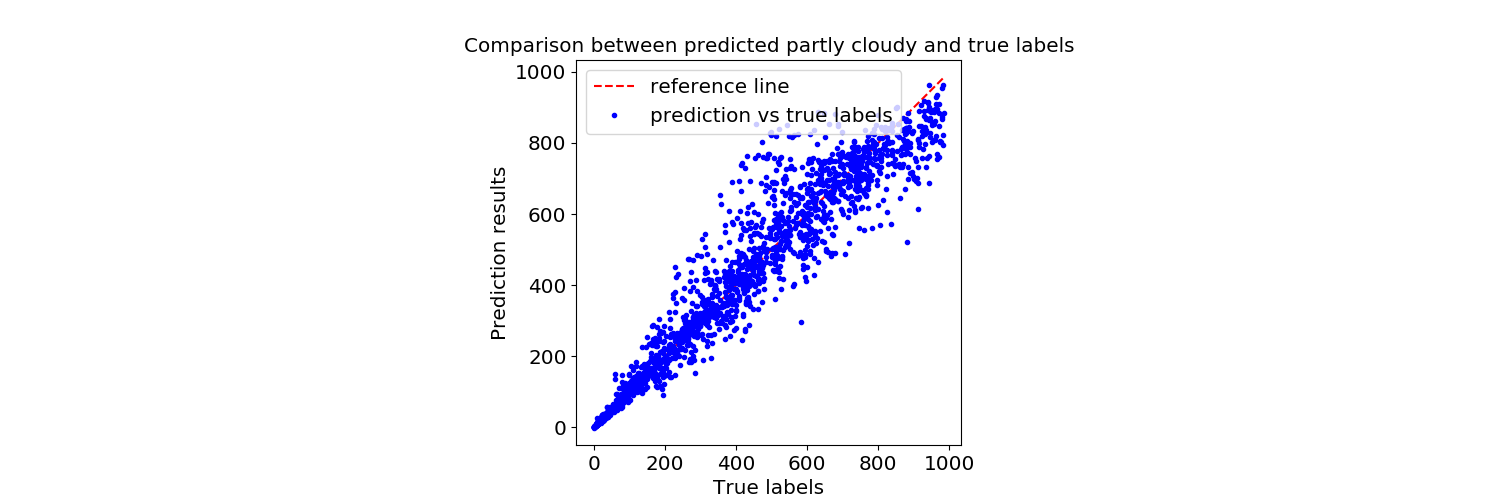
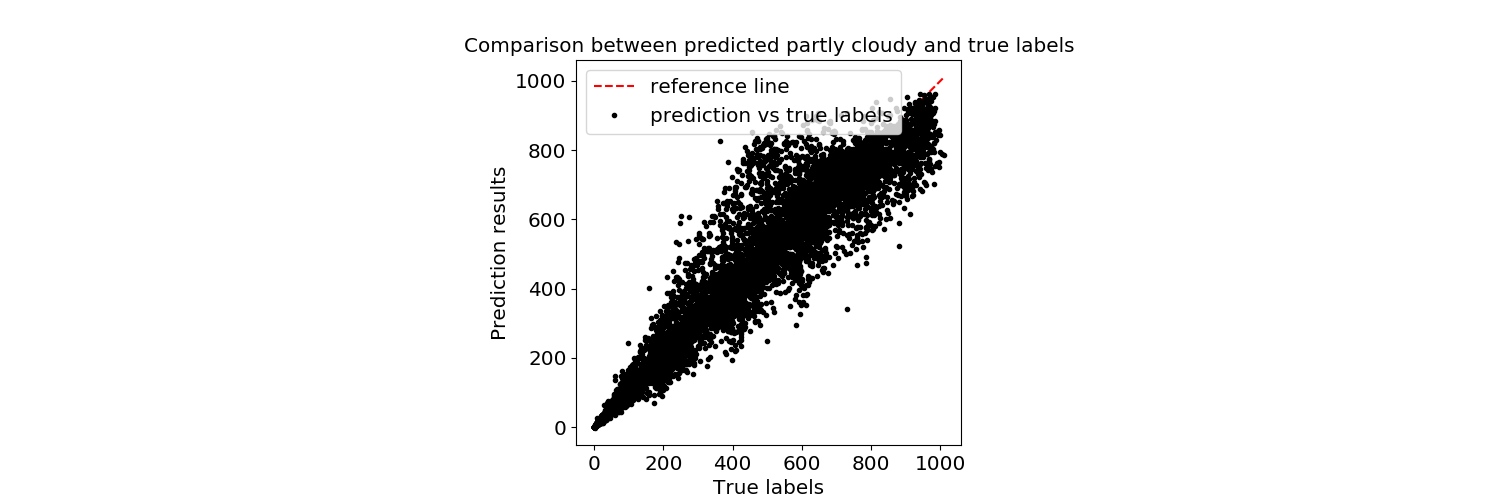
update daily mean

diff --git a/svr/src/utils.py b/svr/src/utils.py
@@ -103,9 +103,6 @@ def regroup_data(preds, labels, masks, data_format=None):
 
     # remove data entries for excluded months
     # reshape data vector into a data cube with shape (25 x 24 x days)
-    # labels_vec = labels_vec[masks['month mask']].reshape((-1, 25, 24))
-    # preds_vec = preds_vec[masks['month mask']].reshape((-1, 25, 24))
-
     labels_vec = labels_vec[masks['month mask']].reshape((-1, 24, 25))
     preds_vec = preds_vec[masks['month mask']].reshape((-1, 24, 25))
 
@@ -121,8 +118,8 @@ def compare_daily_mean(preds_cube, labels_cube, sensor_selection=0):
     logging.info("Start comparing predicted daily mean and measured daily mean")
 
     # calculate daily mean of each sensor (nans are excluded)
-    labels_mean = np.nanmean(labels_cube, axis=2)
-    preds_mean = np.nanmean(preds_cube, axis=2)
+    labels_mean = np.nanmean(labels_cube, axis=1)
+    preds_mean = np.nanmean(preds_cube, axis=1)
 
     logging.debug('the shape of labels_mean is {}'.format(labels_mean.shape))
     logging.debug('the shape of preds_mean is {}'.format(preds_mean.shape))
@@ -279,4 +276,3 @@ if __name__ == '__main__':
     ax.grid(True)
     plt.show()
 '''
-

diff --git a/svr/src/main.py b/svr/src/main.py
@@ -51,7 +51,7 @@ def main(configs) :
 
         ''' regroup the data '''
         preds_cube, labels_cube = utl.regroup_data(preds, labels_backup, proc_mask)
-        utl.compare_daily_mean(preds_cube, labels_cube, sensor_selection=4)
+        utl.compare_daily_mean(preds_cube, labels_cube, sensor_selection=24)
         plt.show()
 
 if __name__ == '__main__' :
@@ -83,8 +83,8 @@ if __name__ == '__main__' :
     DATA_PATH = data_folder + data_name
     FLAG = {'show_figs' : False}
     # MODE = 'grid search'
-    MODE = 'holdout training'
-    # MODE = 'weather prediction'
+    # MODE = 'holdout training'
+    MODE = 'weather prediction'
     MONTH_SELECTION = np.array([6,7,8])
     SUNNY_PARA = {'name': 'sunny', \
                   'test_size' : 0.2, \
